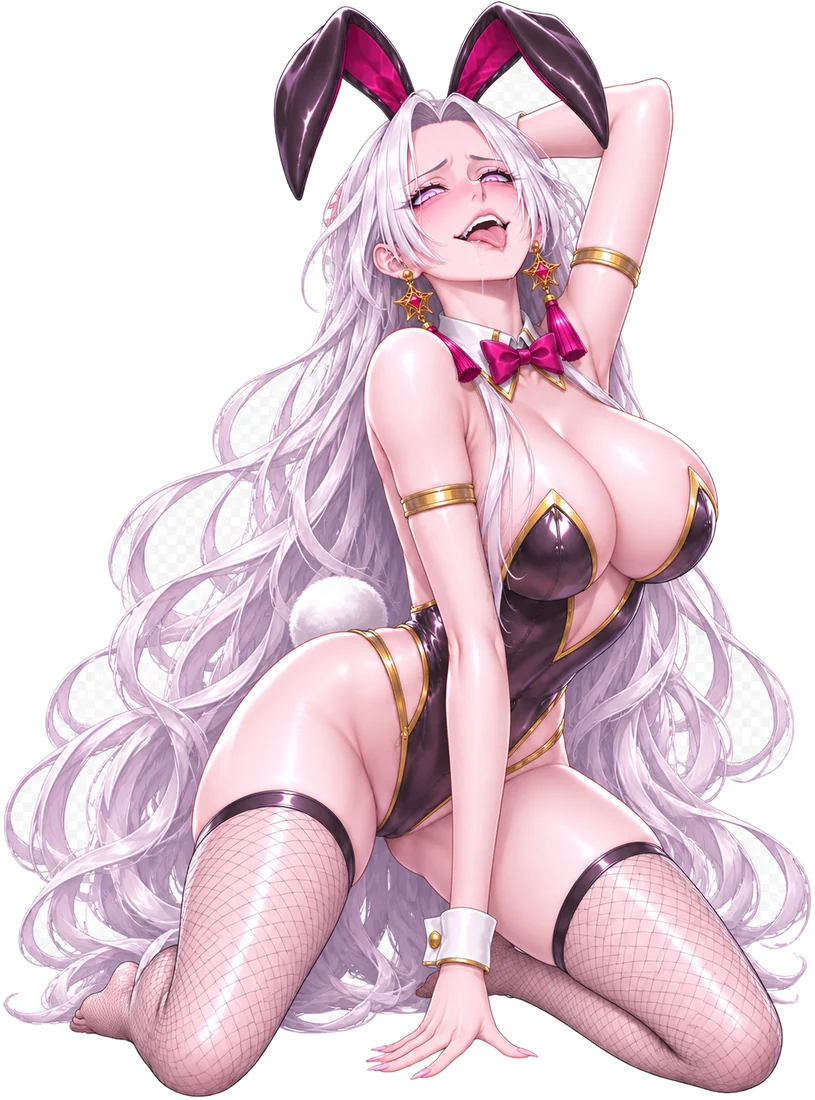
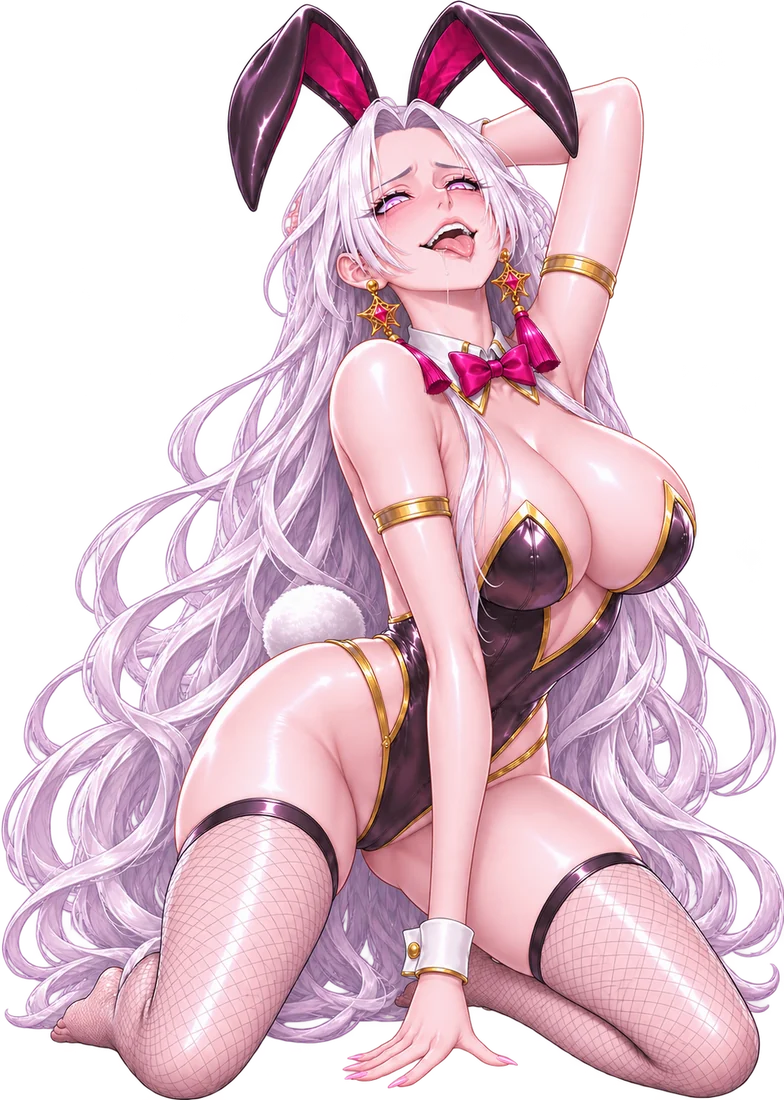
v200：維歐娜頭像、無名女郎、維納斯型態換成使用者提供的去背原檔
Claude-Session: https://claude.ai/code/session_01QdhywRXf3CPbK6yPmqVdsn

diff --git a/js/viona_v187.js b/js/viona_v187.js
@@ -14,7 +14,7 @@
    特效：紫紅色系漸層（VFX 表）。 */
 (function () {
   if (typeof CHARACTERS === 'undefined') return;
-  const V = 199, img = n => `assets/chars/${n}.webp?v=${V}`, ui = n => `assets/ui/${n}.webp?v=${V}`;
+  const V = 200, img = n => `assets/chars/${n}.webp?v=${V}`, ui = n => `assets/ui/${n}.webp?v=${V}`;
   const B = () => (typeof battle !== 'undefined' && battle) || null;
   const L = m => { try { log(m); } catch (e) { } };
   const R = (a, b) => a + Math.random() * (b - a), pct = x => Math.round(x * 100);
@@ -66,7 +66,7 @@
     EVENT_CALENDAR.push({ id: 'venus_viona', start: '2026-11-11 00:00', end: '2026-12-13 00:00', label: '11～12 月限定', preview: '2026-11-09 00:00' }); /* v188：11/11～12/12，開放前顯示預告 */
 
   /* 結算畫面臉部位置 */
-  window.addEventListener('DOMContentLoaded', () => { if (window.CHAR_FACE) Object.assign(CHAR_FACE, { 'assets/chars/viona.webp': [0.457, 0.085, 0.096], 'assets/chars/viona_venus.webp': [0.441, 0.281, 0.052], 'assets/chars/viona_bunny.webp': [0.554, 0.104, 0.112] }); });
+  window.addEventListener('DOMContentLoaded', () => { if (window.CHAR_FACE) Object.assign(CHAR_FACE, { 'assets/chars/viona.webp': [0.457, 0.085, 0.096], 'assets/chars/viona_venus.webp': [0.452, 0.272, 0.052], 'assets/chars/viona_bunny.webp': [0.579, 0.128, 0.118] }); });
 
   /* ---------- 戰鬥狀態 ---------- */
   const isV = f => !!(f && f.id === 'viona');

diff --git a/js/settings.js b/js/settings.js
@@ -2,7 +2,7 @@
 window.addEventListener('beforeinstallprompt', e => { e.preventDefault(); window.__installPrompt = e; });
 /* 設定頁（大廳「設定」與首頁「設定」共用）＋ 新手教學（大廳聚光燈導覽）。
    設定存在 localStorage：op_gfx（畫質）、op_motion（減少動態）、op_bspeed（預設戰鬥速度）、op_vibe（震動回饋）、op_live_pop（即時對戰邀請通知）、op_text（文字大小）、op_fxpro（技能特效高／低，v138）。 */
-const GAME_VERSION = 'v199';
+const GAME_VERSION = 'v200';
 /* v148：目前的畫質（沒選過時：電腦＝極致、手機平板＝高畫質，和 e3three.js 的 E3_ULTRA 規則相同） */
 function gfxNow() { try { const g = localStorage.getItem('op_gfx'); if (g) return g; return !matchMedia('(pointer:coarse)').matches && Math.min(screen.width, screen.height) >= 700 && (navigator.deviceMemory || 8) >= 6 ? 'ultra' : 'high'; } catch (e) { return 'high'; } }
 (function () {

diff --git a/index.html b/index.html
@@ -693,7 +693,7 @@
 <script src="js/roster_v142.js?v=143"></script>
 <script src="js/roster_v152.js?v=154"></script>
 <script src="js/roster_v185.js?v=194"></script>
-<script src="js/viona_v187.js?v=199"></script>
+<script src="js/viona_v187.js?v=200"></script>
 <script src="js/roster_v154.js?v=154"></script>
 <script src="js/roster_v154w.js?v=165"></script>
 <script src="js/roster_v164.js?v=164"></script>
@@ -742,7 +742,7 @@
 <script src="js/social.js?v=131"></script>
 <script src="js/live.js?v=130"></script>
 <script src="js/guild.js?v=116"></script>
-<script src="js/settings.js?v=199"></script>
+<script src="js/settings.js?v=200"></script>
 <script src="js/weekly.js?v=142"></script>
 <script src="js/event.js?v=188"></script>
 <script src="js/music.js?v=164"></script>

diff --git a/CHANGELOG.md b/CHANGELOG.md
@@ -3,6 +3,9 @@
 每累積約 20 個版本統整一次。逐版的完整紀錄（v1～v97）保存在 [docs/archive/README_v1-v97_完整更新紀錄.md](docs/archive/README_v1-v97_完整更新紀錄.md)。
 
 ## 未統整（v98 起，下次在 v118 左右統整）
+### v200（使用者 11/12 16:59 提供去背版的頭像、無名女郎、維納斯型態）
+- 換成使用者提供的透明背景原檔：assets/chars/viona_face.webp（頭像）、viona_bunny.webp（無名女郎）、viona_venus.webp（維納斯型態）；臉部位置依新圖重算。
+- 測試：check-data、smoke；手機直向／橫向截圖確認無名女郎與維納斯型態，沒有錯誤或缺檔。
 ### v199（使用者 11/11 06:24 提供 7 張維歐娜素材）
 決策 DEC-20261111-077；去背腳本與截圖在 /root/promo/v199。
 - 更換：頭像、維納斯型態立繪（第 4 招晉升後）、技能動畫的神妃刀（也是專屬武器圖）、原皮膚立繪、角色碎片圖示、限定池宣傳圖、無名女郎立繪。
